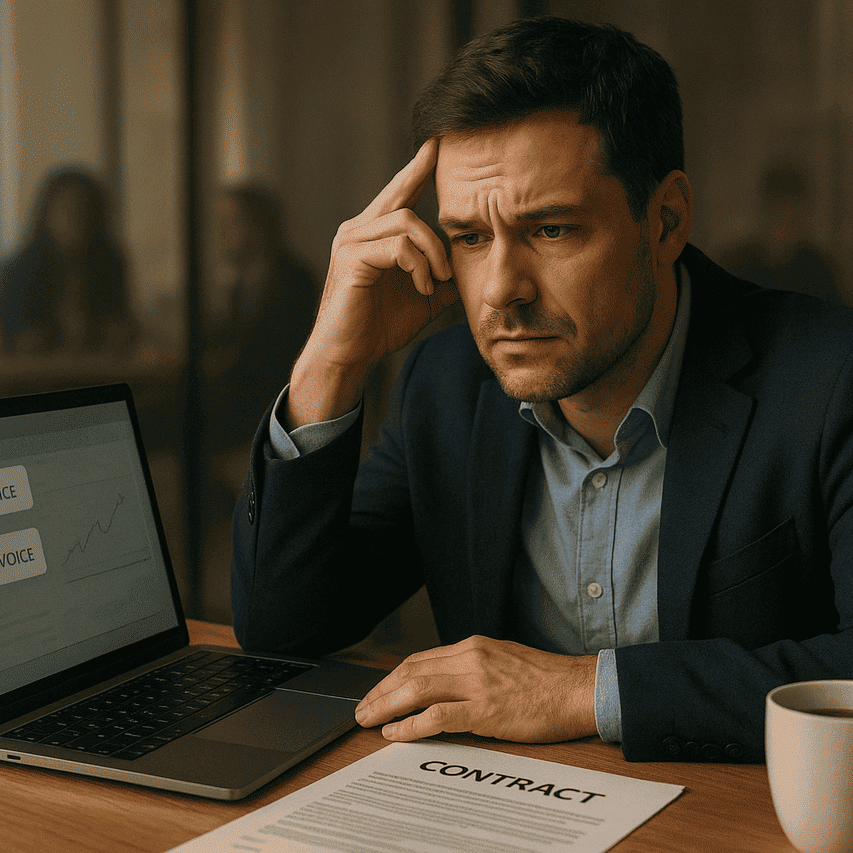
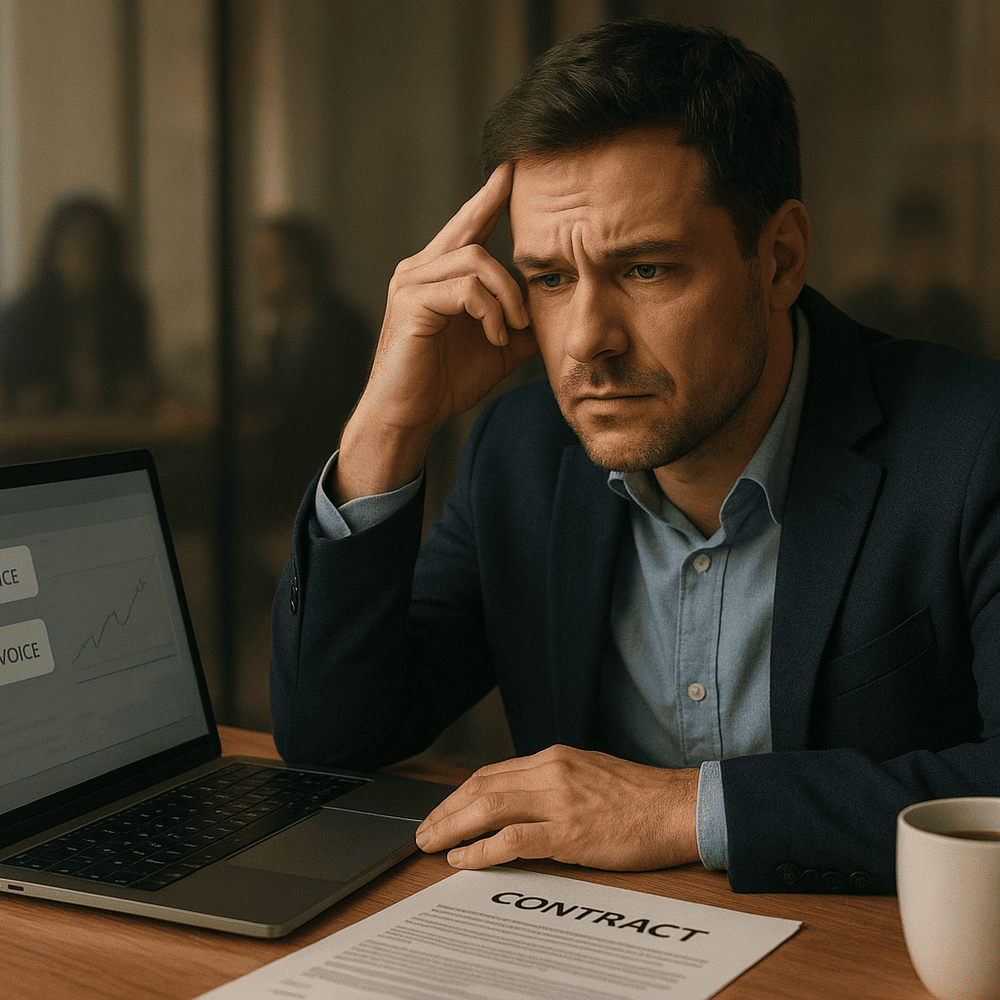
v1

diff --git a/src/content/config.ts b/src/content/config.ts
@@ -27,6 +27,10 @@ const blog = defineCollection({
     date: z.coerce.date(),
     image: z.string().optional(),
     imageSchema: z.array(z.string()).optional(),
+    imageWidth: z.number().optional(),
+    imageHeight: z.number().optional(),
+    imageSrcset: z.string().optional(),
+    imageSizes: z.string().optional(),
     imageAlt: z.string().optional(),
     tags: z.array(z.string()).optional(),
     locale: z.enum(["es", "pt", "en"]),

diff --git a/src/content/blog/es/pagas-la-ia-dos-veces-la-segunda-factura-es-la-mas-cara.md b/src/content/blog/es/pagas-la-ia-dos-veces-la-segunda-factura-es-la-mas-cara.md
@@ -4,13 +4,17 @@ seoTitle: "Privacidad en IA: protege el know-how de tu empresa"
 description: "Descubre qué datos compartes al usar IA, cuándo conviene ejecutarla en local y cómo crear un flujo híbrido para proteger el know-how de tu empresa."
 category: privacy
 articleSection: "Privacidad y gobernanza de IA"
-date: 2026-07-21
-updatedAt: 2026-07-21
+date: 2026-07-21T09:00:00+02:00
+updatedAt: 2026-07-21T19:40:00+02:00
 image: /images/blog/pagas-ia-dos-veces-segunda-factura.png
 imageSchema:
-  - /images/blog/pagas-ia-dos-veces-segunda-factura.png
+  - /images/blog/pagas-ia-dos-veces-segunda-factura-16x9.png
   - /images/blog/pagas-ia-dos-veces-segunda-factura-4x3.png
   - /images/blog/pagas-ia-dos-veces-segunda-factura-1x1.png
+imageWidth: 1200
+imageHeight: 630
+imageSizes: "(max-width: 768px) 100vw, 896px"
+imageSrcset: "/images/blog/pagas-ia-dos-veces-segunda-factura-640.png 640w, /images/blog/pagas-ia-dos-veces-segunda-factura-960.png 960w, /images/blog/pagas-ia-dos-veces-segunda-factura.png 1200w"
 imageAlt: "Dos facturas de IA: una se paga con dinero y otra con el conocimiento de la empresa"
 tags:
   - privacidad en IA para empresas
@@ -25,7 +29,7 @@ locale: es
 translationKey: pay-ai-twice
 author: "Luiz Fernando Brazão"
 authorTitle: "Fundador de IA Operators"
-authorUrl: "https://iaoperators.com/es/"
+authorUrl: "https://iaoperators.com/es/autores/luiz-fernando-brazao/"
 authorSameAs:
   - "https://www.linkedin.com/in/ferbrazao/"
 faqSchema: false
@@ -43,6 +47,8 @@ Cada vez que usas IA llegan dos facturas. Una la ves: la suscripción. La otra n
 
 > **En 30 segundos:** no todas las herramientas de IA utilizan tus datos de la misma forma. El riesgo real aparece cuando compartes documentos, contexto operativo y criterios internos sin conocer las condiciones del proveedor. La estrategia más segura no es abandonar la nube, sino separar las tareas: datos sensibles en local o anonimizados; tareas complejas y no confidenciales en servicios remotos; y memoria de trabajo bajo control de la empresa.
 
+<nav aria-label="Tabla de contenidos">
+
 **En este artículo**
 
 1. [Qué es la segunda factura de la IA](#la-segunda-factura)
@@ -51,6 +57,8 @@ Cada vez que usas IA llegan dos facturas. Una la ves: la suscripción. La otra n
 4. [Cuándo conviene usar IA local](#ia-local)
 5. [Cómo crear un flujo híbrido](#flujo-hibrido)
 6. [Checklist para proteger tu empresa](#checklist)
+
+</nav>
 
 Satya Nadella, CEO de Microsoft, llamó a este problema "Reverse Information Paradox": la empresa paga por el acceso a la inteligencia y, al mismo tiempo, puede revelar conocimiento propietario a través de los prompts, herramientas, evaluaciones y correcciones necesarios para que el modelo sea útil. La tesis fue presentada por Nadella en un [ensayo publicado en X](https://x.com/i/article/2076319195718090753) y posteriormente analizada por [TechRadar](https://www.techradar.com/pro/you-essentially-pay-for-intelligence-twice-once-with-money-and-again-with-something-even-more-valuable-microsoft-ceo-satya-nadella-warns-ai-users-not-to-give-away-too-much).
 
@@ -95,7 +103,7 @@ El ecosistema de modelos de pesos abiertos está ganando adopción rápidamente.
 
 No se trata de elegir "lo mejor del mundo en todo". Se trata de tener opciones. Y de poder seguir trabajando aunque alguien cierre el grifo.
 
-<h2 id="ia-local">"¿Pero se puede ejecutar IA local sin una máquina de 15 000 dólares?"</h2>
+<h2 id="ia-local">«¿Pero se puede ejecutar IA local sin una máquina de 15 000 dólares?»</h2>
 
 Pregunta directa que apareció varias veces. Respuesta honesta: depende de lo que quieras hacer.
 
@@ -117,7 +125,7 @@ Consejo práctico para empezar sin sufrir: empieza con lo que ya tienes, ejecuta
 
 Muchas tareas delimitadas pueden ejecutarse sin una GPU de centro de datos, siempre que el tamaño del modelo, la cuantización, la memoria disponible y la latencia esperada sean compatibles con el equipo.
 
-## "¿Y si 'te capan por hardware'? ¿Y la geopolítica?"
+## «¿Y si te limitan por hardware? ¿Y la geopolítica?»
 
 Preocupación legítima. Pero especular sobre futuros bloqueos no ayuda a decidir hoy. ¿Qué se puede hacer ahora?
 
@@ -155,7 +163,7 @@ Aquí tienes un diseño de proceso para incorporar ya en tu trabajo. Es, en esen
 
 Mejora continua: cada vez que corriges al agente, convierte la corrección en regla dentro de tu memoria local. Así tu criterio se queda contigo.
 
-## "¿Los agentes locales funcionan de verdad?"
+## «¿Los agentes locales funcionan de verdad?»
 
 Tomemos un caso común: vuelves de vacaciones y necesitas retomar un cliente a partir de un paquete de documentos.
 
@@ -170,7 +178,7 @@ Flujo agente-local en 6 pasos:
 
 ¿Qué puede que un modelo local no entregue? Investigación abierta en la web con calidad de primer nivel, razonamientos largos y creativos sin trocear en etapas, y generación multimodal avanzada.
 
-Pero para un recomienzo organizado, con contexto privado, ya resuelve mucho. Y, cuando falte músculo, tienes la ruta remota, sin abrir toda la caja fuerte. Llevar este tipo de agente a producción, con estado persistente y observabilidad, es justo el trabajo de [implementación de sistemas de IA](https://iaoperators.com/es/implementacion/).
+Pero para reanudar el trabajo de forma organizada, con contexto privado, ya resuelve mucho. Y, cuando falte músculo, tienes la ruta remota, sin abrir toda la caja fuerte. Llevar este tipo de agente a producción, con estado persistente y observabilidad, es justo el trabajo de [implementación de sistemas de IA](https://iaoperators.com/es/implementacion/).
 
 ## Dónde más se equivoca la gente
 
@@ -197,8 +205,8 @@ Evita convertir la tabla en una regla absoluta: la configuración y el contrato 
 ## Datos que ayudan a decidir ahora
 
 - La advertencia de "pagar dos veces" y la defensa del control, la portabilidad y la retención de lo que es tuyo vienen del propio CEO de Microsoft, según TechRadar. Úsalo como criterio al elegir proveedor.
-- Si quieres un asistente online sin renunciar a la privacidad, <a href="https://pr.tn/ref/ZB65FBGN" rel="sponsored nofollow" target="_blank">Lumo de Proton</a> usa cifrado de acceso cero, no almacena registros de chat y no entrena sus modelos con tus datos; la actualización Lumo 2.0 añadió capacidades de razonamiento, memoria persistente, imagen y búsqueda con citas manteniendo el foco en la privacidad.
-- El ecosistema abierto está competitivo: en 2026, modelos chinos superaron a los americanos en uso real en OpenRouter, una señal de que el coste y el rendimiento práctico están cambiando.
+- Si quieres un asistente online sin renunciar a la privacidad, <a href="https://pr.tn/ref/ZB65FBGN" rel="sponsored nofollow" target="_blank">Lumo de Proton</a> usa cifrado de acceso cero, no almacena registros de chat y no entrena sus modelos con tus datos; la [actualización Lumo 2.0](https://proton.me/blog/lumo-2) añadió capacidades de razonamiento, memoria persistente, imagen y búsqueda con citas manteniendo el foco en la privacidad.
+- El ecosistema abierto está competitivo: en 2026, los modelos chinos superaron a los estadounidenses en participación de tokens procesados en [OpenRouter](https://openrouter.ai/blog/insights/deepseek-v4-adoption/) a comienzos de junio. Es una señal relevante de adopción dentro de la plataforma, pero no representa por sí sola todo el mercado de IA.
 
 Estos datos no te dicen que "lo cambies todo". Refuerzan una línea: mantén tu poder de elección, guarda tu memoria contigo y ten un plan B que no dependa de una sola empresa.
 

diff --git a/src/content/blog/pt/voce-paga-ia-duas-vezes-segunda-fatura-cara.md b/src/content/blog/pt/voce-paga-ia-duas-vezes-segunda-fatura-cara.md
@@ -4,13 +4,17 @@ seoTitle: "Privacidade em IA: proteja o know-how da empresa"
 description: "Descubra que dados você compartilha ao usar IA, quando vale rodar em local e como criar um fluxo híbrido para proteger o know-how da sua empresa."
 category: privacy
 articleSection: "Privacidade e governança de IA"
-date: 2026-07-21
-updatedAt: 2026-07-21
+date: 2026-07-21T09:00:00+02:00
+updatedAt: 2026-07-21T19:40:00+02:00
 image: /images/blog/pagas-ia-dos-veces-segunda-factura.png
 imageSchema:
-  - /images/blog/pagas-ia-dos-veces-segunda-factura.png
+  - /images/blog/pagas-ia-dos-veces-segunda-factura-16x9.png
   - /images/blog/pagas-ia-dos-veces-segunda-factura-4x3.png
   - /images/blog/pagas-ia-dos-veces-segunda-factura-1x1.png
+imageWidth: 1200
+imageHeight: 630
+imageSizes: "(max-width: 768px) 100vw, 896px"
+imageSrcset: "/images/blog/pagas-ia-dos-veces-segunda-factura-640.png 640w, /images/blog/pagas-ia-dos-veces-segunda-factura-960.png 960w, /images/blog/pagas-ia-dos-veces-segunda-factura.png 1200w"
 imageAlt: "Duas faturas de IA: uma paga em dinheiro e outra com o conhecimento da empresa"
 tags:
   - privacidade em IA para empresas
@@ -25,7 +29,7 @@ locale: pt
 translationKey: pay-ai-twice
 author: "Luiz Fernando Brazão"
 authorTitle: "Fundador da IA Operators"
-authorUrl: "https://iaoperators.com/pt/"
+authorUrl: "https://iaoperators.com/pt/autores/luiz-fernando-brazao/"
 authorSameAs:
   - "https://www.linkedin.com/in/ferbrazao/"
 faqSchema: false
@@ -43,6 +47,8 @@ Toda vez que você usa IA, chegam dois boletos. Um você vê: a assinatura. O ou
 
 > **Em 30 segundos:** nem todas as ferramentas de IA usam seus dados da mesma forma. O risco real aparece quando você compartilha documentos, contexto operacional e critérios internos sem conhecer as condições do provedor. A estratégia mais segura não é abandonar a nuvem, e sim separar as tarefas: dados sensíveis em local ou anonimizados; tarefas complexas e não confidenciais em serviços remotos; e memória de trabalho sob controle da empresa.
 
+<nav aria-label="Índice">
+
 **Neste artigo**
 
 1. [O que é a segunda fatura da IA](#la-segunda-factura)
@@ -51,6 +57,8 @@ Toda vez que você usa IA, chegam dois boletos. Um você vê: a assinatura. O ou
 4. [Quando vale usar IA local](#ia-local)
 5. [Como criar um fluxo híbrido](#flujo-hibrido)
 6. [Checklist para proteger sua empresa](#checklist)
+
+</nav>
 
 Satya Nadella, CEO da Microsoft, chamou esse problema de "Reverse Information Paradox": a empresa paga pelo acesso à inteligência e, ao mesmo tempo, pode revelar conhecimento proprietário por meio dos prompts, ferramentas, avaliações e correções necessários para tornar o modelo útil. A tese foi apresentada por Nadella em um [ensaio publicado no X](https://x.com/i/article/2076319195718090753) e posteriormente analisada pela [TechRadar](https://www.techradar.com/pro/you-essentially-pay-for-intelligence-twice-once-with-money-and-again-with-something-even-more-valuable-microsoft-ceo-satya-nadella-warns-ai-users-not-to-give-away-too-much).
 
@@ -197,8 +205,8 @@ Evite transformar a tabela em regra absoluta: a configuração e o contrato cont
 ## Fatos que ajudam a decidir agora
 
 - O alerta do "pagar duas vezes" e a defesa por controle, portabilidade e retenção do que é seu vêm do próprio CEO da Microsoft, relatado pela TechRadar. Use isso como critério ao escolher fornecedor.
-- Se quiser um assistente online sem abrir mão de privacidade, o <a href="https://pr.tn/ref/ZB65FBGN" rel="sponsored nofollow" target="_blank">Lumo da Proton</a> usa criptografia de acesso zero, não armazena registros de chat e não treina seus modelos com os seus dados; a atualização Lumo 2.0 adicionou recursos de raciocínio, memória persistente, imagem e busca com citações mantendo o foco em privacidade.
-- O ecossistema aberto está competitivo: em 2026, modelos chineses superaram os americanos em uso real na OpenRouter — um sinal de que custo e desempenho prático estão mudando.
+- Se quiser um assistente online sem abrir mão de privacidade, o <a href="https://pr.tn/ref/ZB65FBGN" rel="sponsored nofollow" target="_blank">Lumo da Proton</a> usa criptografia de acesso zero, não armazena registros de chat e não treina seus modelos com os seus dados; a [atualização Lumo 2.0](https://proton.me/blog/lumo-2) adicionou recursos de raciocínio, memória persistente, imagem e busca com citações mantendo o foco em privacidade.
+- O ecossistema aberto está competitivo: em 2026, os modelos chineses superaram os americanos em participação de tokens processados na [OpenRouter](https://openrouter.ai/blog/insights/deepseek-v4-adoption/) no início de junho. É um sinal relevante de adoção dentro da plataforma, mas não representa sozinho todo o mercado de IA.
 
 Esses dados não mandam você "trocar tudo". Eles reforçam uma linha: mantenha seu poder de escolha, guarde sua memória com você e tenha um plano B que não dependa de uma única empresa.
 

diff --git a/src/content/blog/en/you-pay-for-ai-twice-the-second-bill-is-the-costliest.md b/src/content/blog/en/you-pay-for-ai-twice-the-second-bill-is-the-costliest.md
@@ -4,13 +4,17 @@ seoTitle: "AI privacy: protect your company's know-how"
 description: "Learn what data you share when using AI, when running it locally makes sense, and how to build a hybrid flow to protect your company's know-how."
 category: privacy
 articleSection: "AI Privacy & Governance"
-date: 2026-07-21
-updatedAt: 2026-07-21
+date: 2026-07-21T09:00:00+02:00
+updatedAt: 2026-07-21T19:40:00+02:00
 image: /images/blog/pagas-ia-dos-veces-segunda-factura.png
 imageSchema:
-  - /images/blog/pagas-ia-dos-veces-segunda-factura.png
+  - /images/blog/pagas-ia-dos-veces-segunda-factura-16x9.png
   - /images/blog/pagas-ia-dos-veces-segunda-factura-4x3.png
   - /images/blog/pagas-ia-dos-veces-segunda-factura-1x1.png
+imageWidth: 1200
+imageHeight: 630
+imageSizes: "(max-width: 768px) 100vw, 896px"
+imageSrcset: "/images/blog/pagas-ia-dos-veces-segunda-factura-640.png 640w, /images/blog/pagas-ia-dos-veces-segunda-factura-960.png 960w, /images/blog/pagas-ia-dos-veces-segunda-factura.png 1200w"
 imageAlt: "Two AI invoices: one paid in money and one paid with the company's knowledge"
 tags:
   - AI privacy for business
@@ -25,7 +29,7 @@ locale: en
 translationKey: pay-ai-twice
 author: "Luiz Fernando Brazão"
 authorTitle: "Founder of IA Operators"
-authorUrl: "https://iaoperators.com/en/"
+authorUrl: "https://iaoperators.com/en/autores/luiz-fernando-brazao/"
 authorSameAs:
   - "https://www.linkedin.com/in/ferbrazao/"
 faqSchema: false
@@ -43,6 +47,8 @@ Every time you use AI, two bills arrive. One you see: the subscription. The othe
 
 > **In 30 seconds:** not every AI tool uses your data the same way. The real risk shows up when you share documents, operational context and internal criteria without knowing the provider's terms. The safest strategy isn't to abandon the cloud, but to split the tasks: sensitive data local or anonymized; complex, non-confidential tasks on remote services; and your working memory under the company's control.
 
+<nav aria-label="Table of contents">
+
 **In this article**
 
 1. [What the second AI bill is](#la-segunda-factura)
@@ -51,6 +57,8 @@ Every time you use AI, two bills arrive. One you see: the subscription. The othe
 4. [When local AI makes sense](#ia-local)
 5. [How to build a hybrid flow](#flujo-hibrido)
 6. [Checklist to protect your company](#checklist)
+
+</nav>
 
 Satya Nadella, CEO of Microsoft, called this problem the "Reverse Information Paradox": a company pays for access to intelligence and, at the same time, may reveal proprietary knowledge through the prompts, tools, evaluations and corrections needed to make the model useful. The thesis was laid out by Nadella in an [essay published on X](https://x.com/i/article/2076319195718090753) and later analyzed by [TechRadar](https://www.techradar.com/pro/you-essentially-pay-for-intelligence-twice-once-with-money-and-again-with-something-even-more-valuable-microsoft-ceo-satya-nadella-warns-ai-users-not-to-give-away-too-much).
 
@@ -197,8 +205,8 @@ Don't turn the table into an absolute rule: settings and contract still matter. 
 ## Facts that help you decide now
 
 - The "paying twice" warning and the case for control, portability and retaining what's yours come from Microsoft's own CEO, as reported by TechRadar. Use it as a criterion when choosing a provider.
-- If you want an online assistant without giving up privacy, <a href="https://pr.tn/ref/ZB65FBGN" rel="sponsored nofollow" target="_blank">Proton's Lumo</a> uses zero-access encryption, stores no chat logs and doesn't train its models on your data; the Lumo 2.0 update added reasoning, persistent memory, image and cited-search capabilities while keeping the privacy focus.
-- The open ecosystem is competitive: in 2026, Chinese models overtook American ones in real usage on OpenRouter, a sign that cost and practical performance are shifting.
+- If you want an online assistant without giving up privacy, <a href="https://pr.tn/ref/ZB65FBGN" rel="sponsored nofollow" target="_blank">Proton's Lumo</a> uses zero-access encryption, stores no chat logs and doesn't train its models on your data; the [Lumo 2.0 update](https://proton.me/blog/lumo-2) added reasoning, persistent memory, image and cited-search capabilities while keeping the privacy focus.
+- The open ecosystem is competitive: in 2026, Chinese models overtook American ones in share of tokens processed on [OpenRouter](https://openrouter.ai/blog/insights/deepseek-v4-adoption/) in early June. It's a meaningful adoption signal within the platform, but it doesn't represent the entire AI market on its own.
 
 These figures aren't telling you to "swap everything." They reinforce one line: keep your power to choose, keep your memory with you, and have a plan B that doesn't depend on a single company.
 
